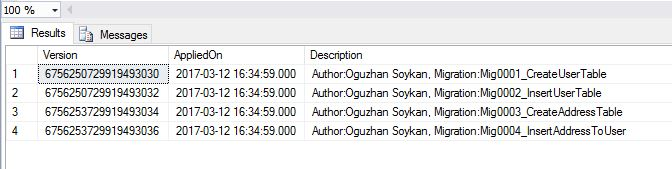
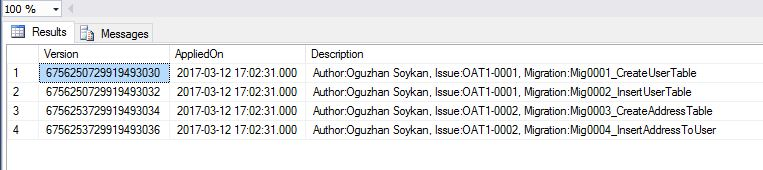
refactor attribute

Changed region(s): [[0.0, 0.0, 1.0, 1.0], [0.0625, 0.6213, 0.9375, 0.7988]]

diff --git a/Domain.Data.FluentMigrator/KnownMigrationAttribute.cs b/Domain.Data.FluentMigrator/KnownMigrationAttribute.cs
@@ -6,22 +6,22 @@ namespace Domain.Data.FluentMigrator
 {
     public class KnownMigrationAttribute : MigrationAttribute
     {
-        public KnownMigrationAttribute(string author, string jiraIssueOrBranchName, Type migrationType, int year, int month, int day, int hour, int minute)
-            : base(CalculateValue(jiraIssueOrBranchName.GetHashCode(), year, month, day, hour, minute), GenerateDescription(author, migrationType))
+        public KnownMigrationAttribute(string author, string issueName, Type migrationType, int year, int month, int day, int hour, int minute)
+            : base(CalculateValue(issueName.GetHashCode(), year, month, day, hour, minute), GenerateDescription(author, issueName, migrationType))
         {
             Author = author;
         }
 
         public string Author { get; private set; }
 
-        private static string GenerateDescription(string author, Type migrationType)
+        private static string GenerateDescription(string author, string issueName, Type migrationType)
         {
-            return $"Author:{author}, Migration:{migrationType.Name}";
+            return $"Author:{author}, Issue:{issueName}, Migration:{migrationType.Name}";
         }
 
-        private static long CalculateValue(int jiraIssueOrBranchNameHash, int year, int month, int day, int hour, int minute)
+        private static long CalculateValue(int issueName, int year, int month, int day, int hour, int minute)
         {
-            return jiraIssueOrBranchNameHash * 1000000000000L + year * 100000000L + month * 1000000L + day * 10000L + hour * 100L + minute;
+            return issueName * 1000000000000L + year * 100000000L + month * 1000000L + day * 10000L + hour * 100L + minute;
         }
     }
 }
